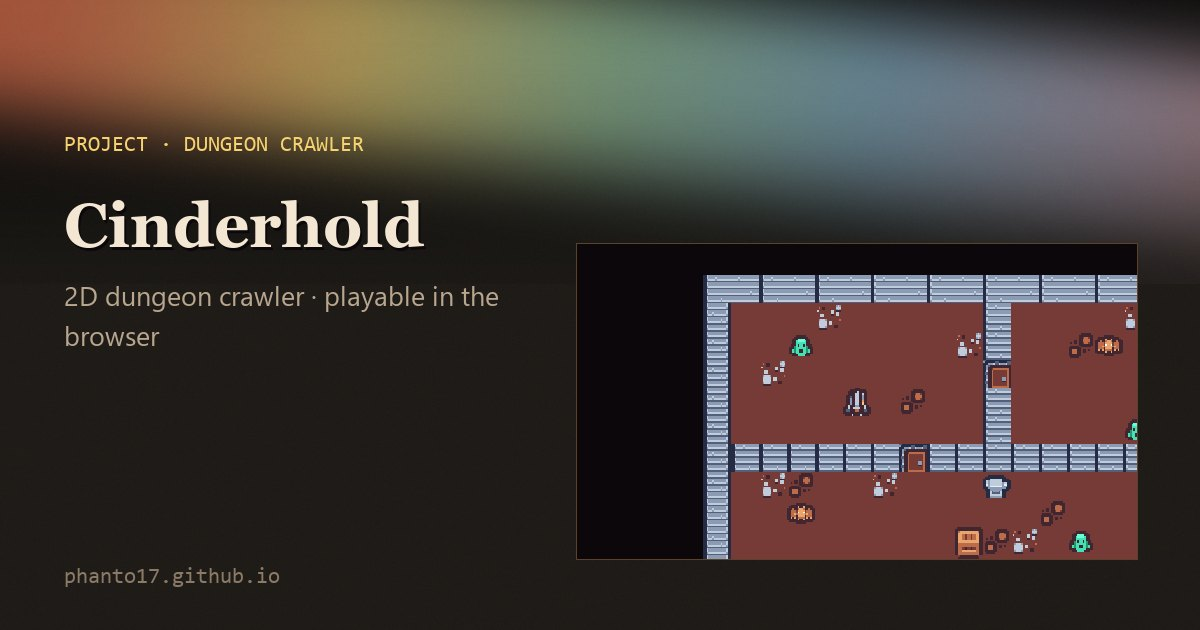
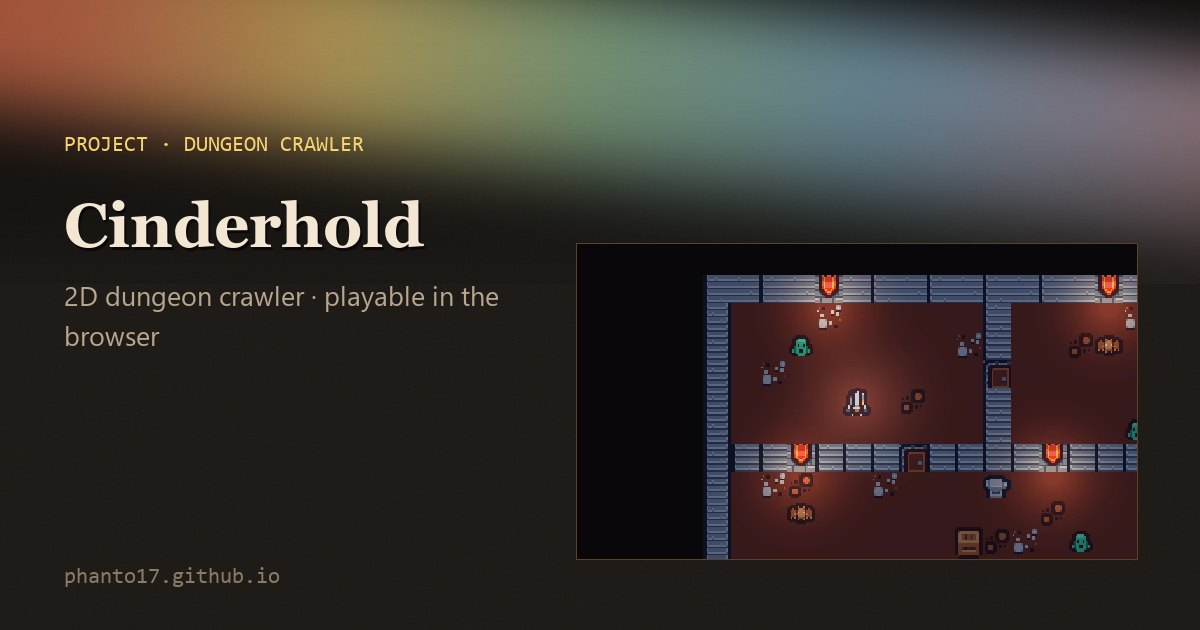
Cinderhold 0.4.0 (keys floor): copy, plan, notes, re-rendered floor images

Changed region(s): [[0.5858, 0.4222, 0.9558, 0.9048]]

diff --git a/CLAUDE.md b/CLAUDE.md
@@ -40,7 +40,7 @@ Live, public game-dev portfolio website. It is both a university course assignme
 |---|---|---|---|
 | SurvivorLike → public title **Horde Hours** | `D:\UnityProjects\SurvivorLike 4\SurvivorLike` | 6000.0.38f1, URP 17, Cinemachine 3, Input System | Vampire-Survivors-like. Build scenes: MenuScene (built from code by `HordeHoursSetup.BuildMenuScene`, 2026-10-15), Game1. My code: `Assets/_Game` (abilities, waves, object pooling, level-up, save system, HUD). Third-party (all confirmed 2026-10-15, listed with publishers on the site page): Asset Store packs by Supercyan, PI Entertainment, ThunderForgeStudio, Blink, BenjaTheMaker, CartoonVFX9x, Hun0FX, Matthew Guz, Travis Game Assets, Cartoon VFX by Wallcoeur, Vefects, LowlyPoly, SLD Audio (music "Happy Harmony"), Cyberwave Orchestra; rat character from Mixamo; fonts League Gothic (OFL) and Caslon Antique (1001Fonts FFC); AI-generated icons. **Retro Floral (personal use only) and Gondens DEMO were removed from the game on 2026-10-15** – never reintroduce them. Static Field visual is a Particle System since 2026-10-15 (VFX Graph and PPv2 packages removed). **Spawn director since 2026-10-22 (0.2.0):** `Assets/_Game/Scripts/Director` (`HordeHours.Director` asmdef, pure `SpawnDirectorModel`), `Scripts/Core/SpawnDirector.cs` + `SpawnSchedule.cs` (asset `Assets/Data/Director/Default Schedule.asset`), `EnemyScaling`; `Assets/_Game/Editor/DirectorSetup.cs` wires Game1 (WaveManager component disabled, kept). Tests in `Assets/_Game/Tests/Editor` (`HordeHours.Tests.Editor` asmdef). Pause menu has Save/Load buttons (the save IS loaded from there). **Review round 0.2.1 (2026-10-22):** `Assets/_Game/Editor/ReviewSetup.cs` (Zap shaders `#pragma target 3.5` — 4.5 is magenta on WebGL; night lighting: moonlight 0.32, Trilight ambient, fog, no skybox, warm point `Lamp` under `Player_Root`; LevelUpScreen `Dim`; InventoryPanel kept in place (owner's call); `RatLight` under `RatDancing` for the level-up rats; `CursorLock` on the player; Kenney stings (STEEL02 / STEEL01 / impactMining — **not the Push Comes to Shove clips**, owner's call) + cynicmusic "Crystal Cave" menu theme in `Assets/Audio`; the level-up plays only the owner's own sound), menu rebuilt by `HordeHoursSetup.BuildMenuScene` (generated glow/vignette sprites in `Assets/Sprites/UI`, `MenuButtonFeel`). Web build zips `Builds/HordeHours-web-0.1.0.zip` (was live 2026-10-16 → 2026-10-22), `0.2.0.zip`, `0.2.1.zip`, `0.2.2.zip` `0.2.3.zip` and `0.2.4.zip` (timer on one line under the XP bar; rats removed with their assets — no rat credit any more; pointer lock re-taken inside the card/Resume click; 29 MB) — **0.2.4 is live on itch.io since 2026-10-22 (verified byte-identical)**; **0.2.5 (2026-10-25, H3+H4: `Assets/_Game/Editor/SettingsSetup.cs` — results panel via `RunResultsScreen`/`RunSummary`, `VolumePrefs` sliders in pause and a menu Settings screen, mix defaults + ducking, four unattributed WAVs deleted) — live on itch.io since 2026-10-25 (verified byte-identical, frame html/20018331)**; **0.2.6 (2026-10-25, H7: `Editor/ContinueSetup.cs` — menu Continue in a layout column, `ContinueLoader`, director `SkipTo`, save deleted on death/win; **web save in PlayerPrefs** — the persistentDataPath file never reached IndexedDB) — live on itch.io since 2026-10-25 (verified byte-identical, upload html/20021818; the first upload 20021333 had a Cloudflare-cached 404 on its data file and was replaced)**; **0.3.0 (2026-10-25, H2: `Assets/_Game/Editor/RolesSetup.cs` — enemy roles via `EnemyMovement.role`/`EnemySteering`, skeleton `EnemyRanged` + `BoneProjectile` (BTM Skull and Bones), elites via `EliteMarker` from 5:00, `Boss_Enemy` zombie variant with `BossBrain`/`ChargeCycle` at 9:00 + `BossHealthBar`; local-only preview build `Builds/WebPreview` with an early boss) — live on itch.io since 2026-10-25 (verified byte-identical, upload html/20022525)**; **0.3.1 (2026-10-25, H6: `Editor/PerfSetup.cs` + `PerfBench`/`PerfBenchRunner`/`PerfAudit` — Enemy×Enemy physics off, 2 shadow cascades, no opaque texture, pool prewarm, pooled SFX voices; local-only `Builds/WebBench` load-test build with an overlay) — live on itch.io since 2026-10-26 (verified byte-identical, upload html/20051695)**; itch: `https://phanto-official.itch.io/horde-hours`. |
 | Into the Mewgenics → public title **Push Comes to Shove** | `D:\UnityProjects\IntotheMewgenics` | 6000.3.10f1, URP 2D, Input System | Deterministic grid tactics (Into the Breach / King's Bounty inspired). Same project as "Turn-Based Tactics Prototype" on my CV. Design docs: `Docs/DESIGN.md`, `Docs/PLAN-core-loop.md`. Has Unity MCP installed (strip before building). Third-party (confirmed 2026-10-14): Kenney Isometric Sandbox tiles (CC0); Sanctum Pixel *Top Down Pixel Art Characters* packs – Humans, Orc, Elf, Goblin (purchased, credit optional, no resale); PixelBattleText by Psychic Fur (free, Asset Store EULA, bundles the Alphapix font); UI font Pixellari by Zacchary Dempsey-Plante (100 % free, credit requested). The dafont "Pixel" font (krolesz94, personal use only) is **not** in the project. Damage is fixed since 2026-10-12 (Melee 4 / Ranged 3 / Line 1). **Melee shoves 1 tile since 2026-10-21 (build 0.2.0); before that nothing in the game pushed (Melee/Ranged PushAmount 0 at baseline, Line Attack on no prefab) — the `Assets/Editor/PushSetup.cs` script sets the data, creates `Sprites/Tiles/Pit.asset` (Kenney water tile, Hazard cell) and places 4 pits on the board `Level 1 Data` points at (`Battlefield.prefab`; `Lvl1.prefab` is unused); `Tests/EditMode/ShoveTests.cs` pins it.** **Audio since 2026-10-22 (0.3.0):** Kenney Impact / RPG / Interface / Music Jingles (CC0) and two cynicmusic loops (CC0, credit pixelsphere.org) in `Assets/Audio`, built by `Assets/Editor/AudioSetup.cs` from `_thirdparty`; `Scripts/Audio` (`SfxId`, `AudioLibrary`, `AudioManager`, `ButtonSfx`). The polish pass (audio → feel → front end → build size) shipped as `Builds/PushComesToShove-web-0.3.0.zip` (24 MB; sheets padded to 2268 px + cap 4096 so they block-compress — the 2048 cap had resampled them to 2048×1706, not ÷4, hence RGBA32) on 2026-10-22, then a review round from the owner's recording (first-hit arrows, selection kept across modes, `UiSkinSetup.cs` skinning every button with the riveted plate + Pixellari rebuilt with Polish letters) as `0.3.1.zip`; **0.3.1 is live on itch.io since 2026-10-22 (verified byte-identical).** **Level set 0.4.0 (2026-10-25, P4):** `Assets/Editor/LevelSetup.cs` builds boards from ASCII maps into `Prefabs/Levels` + `Data/Levels`, catalog `Assets/Resources/Levels.asset` (First Shove → The Crossing = `Level 1 Data` → Drowned Fields → Hold the Line (survive 5) → The Warband), rocks (`Data/Cell Templates/Rock.asset`, `Sprites/Tiles/Rock.asset` + `Rock Raised.asset`), `LevelFlow`/`LevelProgress` in `Scripts/GridSystem/LevelCatalog.cs`, `Tests/EditMode/LevelTests.cs`; `WebBuild.BuildPreview` = local-only all-levels build in `Builds/WebPreview` (never upload); `Builds/PushComesToShove-web-0.4.0.zip` — **live on itch.io since 2026-10-25 (verified byte-identical, upload html/20031719)**; 0.3.1 was live 2026-10-22 → 2026-10-25. The itch page now uses a signed `html_url/<id>` embed link that answers `{"status":"extracting"}` until itch has unpacked the zip — wait for `complete` before requesting any build file. itch.io page: `https://phanto-official.itch.io/push-comes-to-shove` (itch handle is **phanto-official** since 2026-10-16; the old `fanto1` URLs redirect). "Mewgenics" is the title of an existing commercial game – never use it publicly. |
-| **Cinderhold** (rework of DungeonForge) | `D:\UnityProjects\Cinderhold` (new, 2026-10-16); old tutorial prototype frozen at `D:\UnityProjects\DungeonForge` (git baseline `20ca45d`, reference only, never reuse) | 6000.6.3f1, URP 17.6 2D renderer, Input System 1.20, Tilemap + Extras | 2D top-down dungeon crawler built from Unity's empty Universal 2D template (git baseline `bc9729c`). Foundation done 2026-10-16: `Assets/_Game` layout, asmdefs `Cinderhold` / `Cinderhold.Editor`, `Cinderhold.inputactions` (Move/Attack/Interact/Pause, keyboard + gamepad), Kenney **Tiny Dungeon** (CC0, sliced `td_000…td_131`, Tile assets + palette), Playground scene (Pixel Perfect Camera 320×180 at 16 PPU, Walls composite collider, `PlayerMovement`), `WebBuild.cs`. Everything is created by the idempotent headless editor script `Assets/_Game/Editor/CinderholdSetup.cs` (`-executeMethod Cinderhold.EditorTools.CinderholdSetup.All`). Combat core done 2026-10-16 (`Scripts/Combat`: `HealthPool` pure C# + `Health`, `WeaponData` SO, `MeleeAttacker` OverlapBox swing, `KnockbackReceiver`, `HitStop`, `HitFlash`, `DeathSequence`; prefabs Player + Slime; `Assets/_Game/Tests/Editor` EditMode tests, run headlessly with `-runTests -testPlatform EditMode`). Enemy AI done 2026-10-16 (`Scripts/Enemies`: `EnemyDefinition` → `EnemyStats`, pure-C# states behind `IEnemyContext`, `EnemyBrain`, `AttackPattern`, `AttackTelegraph`; one inactive `Enemy.prefab` configured at spawn; data Slime / Bat / Rat / boss Cinderclaw). Progression & save done 2026-10-16 (`Scripts/Progression`: `PlayerProgress`/`LevelCurve`/`Shop` pure + `PlayerProgression`, `PlayerLoadout`, `Pickup`, `LootDropper`, `ShopStation`; `Scripts/Save`: `SaveSystem` + `ISaveSystemElement` + `ISaveStore` (PlayerPrefs on web); `Scripts/Interaction`; `Core/GameSession` autosave policy; TMP essentials imported into `Assets/TextMesh Pro`). UI & feel done 2026-10-16 (`Prefabs/HUD.prefab` built by the setup script; `Scripts/UI`: `HudController`, `DeathScreen`, `PauseController`; `Core/GameClock`; `Effects/FloatingTextPool`; `Audio/SfxSynth` procedural SFX, since 2026-10-22 only the fallback behind `Audio/AudioLibrary` (Resources) + `SfxPlayer` + `MusicPlayer` + `AudioVolumes` — Kenney Impact/RPG/Interface/Jingles clips (CC0, none shared with the other two games) and cynicmusic "Dark Forest Theme" (floors) / "Dramatic Boss Encounter" (boss, via the `boss` flag on `EnemyDefinition`) in `Assets/_Game/Audio`, built by `CinderholdSetup.CreateAudio`; `Player/PlayerDeath`). Floors done 2026-10-16: `Floor1`/`Floor2` scenes generated from ASCII maps in `Editor/CinderholdSetup.Floors.cs` (only these two are in the build; `Playground` is a dev scene), `ExitPortal` + `WinScreen` + `FloorTracker`; **no CompositeCollider2D on tilemaps** (empty at runtime when built by script in 6000.6 — use `TilemapCollider2D` alone, playtest 2026-10-16); world-space text is illegible at 320×180 — all text goes on the HUD canvas; web build zips `Builds/Cinderhold-web-0.1.1.zip` and `0.1.2.zip` (0.1.0 had no wall collision — never ship it); itch copy `docs/itch/cinderhold.md`; public on itch.io since 2026-10-16: `https://phanto-official.itch.io/cinderhold` (0.1.2 since 2026-10-17), site page playable. Credits: Kenney Tiny Dungeon (CC0), Kenney Fonts — Kenney Mini / Mini Square, the UI fonts since 2026-10-17 (CC0), Liberation Sans shipped inside TMP resources (OFL), Kenney audio packs (CC0), cynicmusic loops (CC0). Web builds `Builds/Cinderhold-web-0.2.0.zip` (recorded audio, 2026-10-22, never uploaded) and `0.2.1.zip` (settings + controls card in the pause panel via `SettingsModel`/`SettingsPanel`/`FeelSettings`, death-screen wording; 2026-10-25) — 0.2.1 was live 2026-10-25 → 2026-10-26 (frame html/20009683); 0.1.2 was live 2026-10-17 → 2026-10-25. **0.3.0 (2026-10-26, C3 + C5):** dodge (`Player/DodgeModel` + `PlayerDodge`, `Dodge` action, `HealthPool.GrantInvulnerability`, HUD gauge), 2D lighting (`Scripts/Lighting`: `TorchFlicker`, `BossArena`; `t` = sconce in the floor maps), `Enemies/BossEncounter` + `UI/BossBar`, `Effects/DeathBursts`, `UI/ScreenFade`; `Builds/Cinderhold-web-0.3.0.zip` — **live on itch.io since 2026-10-26 (verified byte-identical, upload html/20052674)**. The itch page credits block was pasted by 2026-10-26; the page description and controls still read as 0.2.1 (no dodge) until the owner pastes them. **The site page says most code was written with Claude Code under my direction** (same honesty line as Eternity Keeper). Design notes: `Docs/DESIGN.md`. |
+| **Cinderhold** (rework of DungeonForge) | `D:\UnityProjects\Cinderhold` (new, 2026-10-16); old tutorial prototype frozen at `D:\UnityProjects\DungeonForge` (git baseline `20ca45d`, reference only, never reuse) | 6000.6.3f1, URP 17.6 2D renderer, Input System 1.20, Tilemap + Extras | 2D top-down dungeon crawler built from Unity's empty Universal 2D template (git baseline `bc9729c`). Foundation done 2026-10-16: `Assets/_Game` layout, asmdefs `Cinderhold` / `Cinderhold.Editor`, `Cinderhold.inputactions` (Move/Attack/Interact/Pause, keyboard + gamepad), Kenney **Tiny Dungeon** (CC0, sliced `td_000…td_131`, Tile assets + palette), Playground scene (Pixel Perfect Camera 320×180 at 16 PPU, Walls composite collider, `PlayerMovement`), `WebBuild.cs`. Everything is created by the idempotent headless editor script `Assets/_Game/Editor/CinderholdSetup.cs` (`-executeMethod Cinderhold.EditorTools.CinderholdSetup.All`). Combat core done 2026-10-16 (`Scripts/Combat`: `HealthPool` pure C# + `Health`, `WeaponData` SO, `MeleeAttacker` OverlapBox swing, `KnockbackReceiver`, `HitStop`, `HitFlash`, `DeathSequence`; prefabs Player + Slime; `Assets/_Game/Tests/Editor` EditMode tests, run headlessly with `-runTests -testPlatform EditMode`). Enemy AI done 2026-10-16 (`Scripts/Enemies`: `EnemyDefinition` → `EnemyStats`, pure-C# states behind `IEnemyContext`, `EnemyBrain`, `AttackPattern`, `AttackTelegraph`; one inactive `Enemy.prefab` configured at spawn; data Slime / Bat / Rat / boss Cinderclaw). Progression & save done 2026-10-16 (`Scripts/Progression`: `PlayerProgress`/`LevelCurve`/`Shop` pure + `PlayerProgression`, `PlayerLoadout`, `Pickup`, `LootDropper`, `ShopStation`; `Scripts/Save`: `SaveSystem` + `ISaveSystemElement` + `ISaveStore` (PlayerPrefs on web); `Scripts/Interaction`; `Core/GameSession` autosave policy; TMP essentials imported into `Assets/TextMesh Pro`). UI & feel done 2026-10-16 (`Prefabs/HUD.prefab` built by the setup script; `Scripts/UI`: `HudController`, `DeathScreen`, `PauseController`; `Core/GameClock`; `Effects/FloatingTextPool`; `Audio/SfxSynth` procedural SFX, since 2026-10-22 only the fallback behind `Audio/AudioLibrary` (Resources) + `SfxPlayer` + `MusicPlayer` + `AudioVolumes` — Kenney Impact/RPG/Interface/Jingles clips (CC0, none shared with the other two games) and cynicmusic "Dark Forest Theme" (floors) / "Dramatic Boss Encounter" (boss, via the `boss` flag on `EnemyDefinition`) in `Assets/_Game/Audio`, built by `CinderholdSetup.CreateAudio`; `Player/PlayerDeath`). Floors done 2026-10-16: `Floor1`/`Floor2` scenes generated from ASCII maps in `Editor/CinderholdSetup.Floors.cs` (maps in `Editor/FloorMaps.cs` since 0.4.0; `Floor1`–`Floor3` are in the build; `Playground` is a dev scene), `ExitPortal` + `WinScreen` + `FloorTracker`; **no CompositeCollider2D on tilemaps** (empty at runtime when built by script in 6000.6 — use `TilemapCollider2D` alone, playtest 2026-10-16); world-space text is illegible at 320×180 — all text goes on the HUD canvas; web build zips `Builds/Cinderhold-web-0.1.1.zip` and `0.1.2.zip` (0.1.0 had no wall collision — never ship it); itch copy `docs/itch/cinderhold.md`; public on itch.io since 2026-10-16: `https://phanto-official.itch.io/cinderhold` (0.1.2 since 2026-10-17), site page playable. Credits: Kenney Tiny Dungeon (CC0), Kenney Fonts — Kenney Mini / Mini Square, the UI fonts since 2026-10-17 (CC0), Liberation Sans shipped inside TMP resources (OFL), Kenney audio packs (CC0), cynicmusic loops (CC0). Web builds `Builds/Cinderhold-web-0.2.0.zip` (recorded audio, 2026-10-22, never uploaded) and `0.2.1.zip` (settings + controls card in the pause panel via `SettingsModel`/`SettingsPanel`/`FeelSettings`, death-screen wording; 2026-10-25) — 0.2.1 was live 2026-10-25 → 2026-10-26 (frame html/20009683); 0.1.2 was live 2026-10-17 → 2026-10-25. **0.3.0 (2026-10-26, C3 + C5):** dodge (`Player/DodgeModel` + `PlayerDodge`, `Dodge` action, `HealthPool.GrantInvulnerability`, HUD gauge), 2D lighting (`Scripts/Lighting`: `TorchFlicker`, `BossArena`; `t` = sconce in the floor maps), `Enemies/BossEncounter` + `UI/BossBar`, `Effects/DeathBursts`, `UI/ScreenFade`; `Builds/Cinderhold-web-0.3.0.zip` — **live on itch.io since 2026-10-26 (verified byte-identical, upload html/20052674)**. The itch page credits block was pasted by 2026-10-26; the page description and controls still read as 0.2.1 (no dodge) until the owner pastes them. **0.4.0 (2026-10-27, C4):** new Floor 2 with keys/locked doors/a checkpoint/armoured slimes (`Interaction/KeyPickup`, `LockedDoor`, `Checkpoint` on `FloorObjectState`; `Progression/KeyRing`; `UI/KeyCounter`; `Editor/CinderholdSetup.Keys.cs` draws the key and padlock sprites), Cinderclaw's floor moved to `Floor3`; `Builds/Cinderhold-web-0.4.0.zip` built, upload pending. **The site page says most code was written with Claude Code under my direction** (same honesty line as Eternity Keeper). Design notes: `Docs/DESIGN.md`. |
 
 | **Eternity Keeper** (tool, not a game) | `D:\PillarsEditor\eternity-keeper` (repo `phanto17/eternity-keeper`, fork of `aybrkaknc/eternity-keeper`, GPL-3.0) | Java 8 + JCEF, Maven; own `CLAUDE.md` with strict toolchain and save-safety rules – **read it before touching that repo** | Pillars of Eternity save editor. My work Jul 12 – Oct 9 2026: ~90 commits (identities `tjaskol`, `boogiewoogie`), ~44 k lines added incl. tests, releases 1.0.0-beta (2026-10-06) and 1.0.1-beta (2026-10-09), PR #1 open upstream, Reddit announcements. 708 JUnit tests, CI + Package workflows. **Most code was written with Claude Code under my direction – the site and CV must say so** (the repo and Reddit posts already do). Site page: `src/content/projects/eternity-keeper.md` (kind: tool). Screenshots copied to `public/media/eternity-keeper/`. |
 

diff --git a/src/content/projects/cinderhold.md b/src/content/projects/cinderhold.md
@@ -1,6 +1,6 @@
 ---
 title: Cinderhold
-summary: A 2D top-down dungeon crawler with telegraphed enemy attacks — data-driven weapons, enemy state machines, a weapon shop, JSON saves and two hand-made floors.
+summary: A 2D top-down dungeon crawler with telegraphed enemy attacks — data-driven weapons, enemy state machines, a weapon shop, JSON saves and three hand-made floors with keys and locked doors.
 genre: 2D dungeon crawler / roguelite
 status: playable
 itchUrl: https://phanto-official.itch.io/cinderhold
@@ -20,13 +20,14 @@ myContribution:
   - "Enemy AI: each enemy type is an `EnemyDefinition` asset (look, health, speeds, sight, attack pattern, cowardice) applied to one generic prefab at spawn. Behaviour is a small state machine whose states — Idle, Patrol, Chase, Attack, Flee, Recover — are plain C# objects that only see an interface: senses (sight range with hysteresis, line of sight against walls, a short memory of the last seen position, an alert after being hit) and actuators (move, stop, swing). Attacks are telegraphed on the floor from the weapon's hitbox during the windup, followed by a pause that is the player's punish window. Cowards flee at low health, recover out of sight, and cannot flee again for a while so they end up fighting. The boss, Cinderclaw, is the same brain with a cycling attack pattern (slam, slam, sweep); no boss-specific code."
   - "Progression and persistence: enemies carry XP and coin rewards as data and drop pickups that fly to the player; a plain C# progress model handles levels (each level adds max health and refills), XP carry-over and coins; a smith's station in the room sells better weapons through a small interaction layer (nearest usable object in range, one Interact action). Saving is a version plus a list of named JSON blobs — every component with state worth keeping writes its own small record — behind a swappable store: PlayerPrefs in the browser build, memory in tests. One session object decides when to load and autosave, so gameplay code never writes files."
   - "Interface and feel: a screen-space HUD (health pips, XP bar and level, coins, equipped weapon, interaction prompt) driven by the same events the gameplay raises, a death screen that restarts from the last autosave, pause on a single game clock that also owns hit-stop so the two can never cancel each other, pooled floating damage numbers, camera shake scaled by what happened, and sound effects that were at first synthesised from square, saw, sine and noise waves at start — no audio files, no licences to track, and one class to swap when recorded sounds arrived. None of the effects are known to the gameplay code; they subscribe to global events."
-  - "Tests: EditMode tests cover the health pool, cooldown, hitbox geometry, every AI state transition through a fake context, the attack pattern, the level curve and progress model, the shop rules, the save format, the game clock, the sound synthesis, the audio library, the settings list, the dodge and its invulnerability window (93 tests); PlayMode tests instantiate the real prefabs and data and check the sword kill loop, enemy chasing and biting, the bat's flee-and-recover, loot collection after a kill, level-up healing, shop purchases, a full save/load round trip, the HUD, death screen, pause and damage popups against the real prefabs, and the dodge, the lights and the boss encounter on the real floors (34 tests). Both suites run headlessly from the command line like the builds."
-  - "Floors and the run: two hand-made floors authored as text maps and built into scenes by the same editor script, a smith on each, an exit sealed by the guardian on the second floor, a win screen, and checkpoints on arrival so the build can boot into the floor a save belongs to."
+  - "Tests: EditMode tests cover the health pool, cooldown, hitbox geometry, every AI state transition through a fake context, the attack pattern, the level curve and progress model, the shop rules, the save format, the game clock, the sound synthesis, the audio library, the settings list, the dodge and its invulnerability window, the key ring and the saved state of keys and doors, and a check that no floor can strand the player (98 tests); PlayMode tests instantiate the real prefabs and data and check the sword kill loop, enemy chasing and biting, the bat's flee-and-recover, loot collection after a kill, level-up healing, shop purchases, a full save/load round trip, the HUD, death screen, pause and damage popups against the real prefabs, the dodge, the lights and the boss encounter on the real floors, and the keys, locked doors and checkpoint on Floor 2 (40 tests). Both suites run headlessly from the command line like the builds."
+  - "Floors and the run: hand-made floors authored as text maps and built into scenes by the same editor script, a smith on each, an exit sealed by the guardian on the last floor, a win screen, and checkpoints on arrival so the build can boot into the floor a save belongs to."
   - "First playtest (a recorded run with commentary) drove a revision pass: the walls had no collision in the web build because a composite collider built by script produced no geometry at runtime, which a scene-level test now guards; mouse attacks aim at the cursor; damage numbers moved from world space to the HUD so they are legible at the pixel scale; enemies got health bars; health, enemy pacing and heart drops were tuned after a 36-second first death; a short controls hint appears on each floor."
   - "Recorded audio (0.2.0): every sound is now a CC0 clip from Kenney's Impact, RPG, Interface and Music Jingles packs, chosen so that none of them is a sound of my other two games (swings are cloth whooshes, the player's hurt is a plate-armour clank, deaths are tolls on a bell pitched down, the boss roars with a slowed door creak). A library asset in Resources maps each sound id to its clips, level, pitch and jitter; the synthesised versions stay behind it as a fallback, so an id without a recording still sounds. Two cynicmusic loops (CC0): a brooding guitar theme on the floors and a drums-and-violin track that crossfades in when Cinderclaw notices you and out again when it dies; the floor loop carries through portals because the music player survives scene loads. New sounds for the portal, the escape, pausing and the boss, and three persisted volumes (master, music, effects) for the settings screen to come."
   - "Settings (0.2.1): the pause panel holds master, music and effects volume and a screen-shake toggle, driven by the Move action so keyboard and gamepad work without a mouse or an EventSystem; the list is a plain C# model (select, adjust, clamp, wrap) with the drawing kept apart, values persist in PlayerPrefs, and the same panel carries a controls card for both input schemes. The death screen now says what a retry does: the floor restarts from the last checkpoint, enemies return, your level, coins and weapon stay."
   - "Dodge (0.3.0): Shift, K, right mouse, or B / RB on a pad dashes about two and a half tiles through enemies with hits ignored for a quarter of a second, on a cooldown shown as a gauge by the weapon icon. The rhythm (dash, window, cooldown) is a plain C# model with tests, and the window is a new rule on the health pool: grant invulnerability for at least this long, never shortening a longer one. A hit the window swallows says \"Dodged\". Walls still stop the dash, which a PlayMode test checks on the real floor. Enemy windups were shortened and their hit boxes widened, so the red mark is answered by dodging rather than by walking away."
   - "Light and feel (0.3.0): the floors went dark (a dim, cool global 2D light) and are lit by flickering sconces placed from the text maps, a warm light the player carries, a portal that glows brighter once it opens and a red light in the boss room that swells when Cinderclaw notices you. The boss gets an entrance: its name across the screen, a camera shake and a health bar that stays until it falls, all driven by one encounter component the bar, the light and the music cue listen to. Enemies burst into chips in their own colour from a single particle system, and moving between floors fades through black."
+  - "Keys and a third floor (0.4.0): a new Floor 2 between the first floor and Cinderclaw's, so the boss stays last. Two locked doors, two keys guarded in side rooms, a waystone halfway that lights up and saves the run, and an armoured slime (the slime's sprite in iron, over twice the health, barely pushed) that is only a new data asset and a tint. A locked door sits on the wall layer, so it stops bodies, dashes and enemy sight until a key is spent on it. Keys, doors and the waystone each save one flag under their map cell, so a restart from the waystone keeps opened doors open and spent keys gone, and a death before it puts the key back. The map build refuses a floor where some order of spending keys could lock the exit away: it tries every order with a flood fill, and a test pins the rule with a trap map. The key and padlock are 16 px pixel art drawn by the setup script in the tileset's own palette, since the pack has no key."
   - "Most of the code was written with an AI assistant (Claude Code) under my direction: I set the scope and the order of the systems, decided the design rules (telegraphed attacks, data over code, one clock), reviewed every change and its tests, and chose what to cut. The commits say so."
   - "The earlier prototype (June–July 2025) followed a beginner tutorial and is not presented as my work; it is kept only as a frozen reference."
 tools:
@@ -40,7 +41,8 @@ tools:
 media:
   - { type: image, src: /media/cinderhold/floor1-spawn.webp, alt: "Floor 1 of Cinderhold: the knight at the spawn room with a slime and a bat nearby, grey brick walls and a doorway", caption: "Fig. 1 — Floor 1, the first room (rendered from the scene at the game's 4× framing)" }
   - { type: image, src: /media/cinderhold/floor1-exit.webp, alt: "The lower room of Floor 1 with the smith's anvil, a crate, a barrel and the glowing exit stairs", caption: "Fig. 2 — the smith and the way down" }
-  - { type: image, src: /media/cinderhold/floor2-boss.webp, alt: "Floor 2's guardian room: the large red Cinderclaw next to the sealed exit", caption: "Fig. 3 — Cinderclaw seals the last exit until it falls" }
+  - { type: image, src: /media/cinderhold/floor2-locks.webp, alt: "Floor 2 in the dark: torch-lit brick walls, a door with a gold padlock in the wall, a grey waystone below it, green slimes and darker blue-teal armoured slimes", caption: "Fig. 3 — Floor 2: the first locked door, the waystone checkpoint behind it, and armoured slimes" }
+  - { type: image, src: /media/cinderhold/floor3-boss.webp, alt: "Floor 3's guardian room: the large red Cinderclaw next to the sealed exit", caption: "Fig. 4 — Cinderclaw seals the last exit until it falls" }
 credits:
   - { asset: "Tiny Dungeon tileset and characters", author: "Kenney", url: "https://kenney.nl/assets/tiny-dungeon", license: "CC0" }
   - { asset: "Kenney Fonts: Kenney Mini and Kenney Mini Square (UI)", author: "Kenney", url: "https://kenney.nl/assets/kenney-fonts", license: "CC0" }
@@ -52,7 +54,7 @@ credits:
 
 ## The game
 
-Cinderhold is a short top-down dungeon crawler. You fight down two floors of slimes, bats and rats, level up for more health, buy a heavier weapon from the smith with the coins they drop, and face Cinderclaw, the guardian that seals the last exit. Every enemy attack is marked on the floor before it lands: step out of the red mark, then punish. It is small on purpose, a complete loop that runs in the browser.
+Cinderhold is a short top-down dungeon crawler. You fight down three floors of slimes, bats and rats, level up for more health, buy a heavier weapon from the smith with the coins they drop, find the keys to the second floor's locked doors, and face Cinderclaw, the guardian that seals the last exit. Every enemy attack is marked on the floor before it lands: dodge through the red mark, then punish. It is small on purpose, a complete loop that runs in the browser.
 
 The first version of this project, in 2025, was a tutorial follow-along. It is kept only as a frozen reference and nothing from it is reused; the current game started in October 2026 from Unity's empty 2D template.
 
@@ -138,7 +140,7 @@ The boss is the same brain with a longer weapon list (slam, slam, sweep). There 
 
 ### 2. Floors written as text
 
-Both floors are text maps inside an editor script, built into scenes from the command line: walls, lit sconces, doorways, props, the spawn, the smith, the exit and every enemy. Changing a floor means editing a few characters and re-running one build step.
+Every floor is a text map inside an editor script, built into scenes from the command line: walls, lit sconces, doorways, locked doors, keys, the checkpoint, props, the spawn, the smith, the exit and every enemy. Changing a floor means editing a few characters and re-running one build step. Before a floor with locked doors is built, a flood fill tries every order of spending keys on doors; if any order strands the player with the exit out of reach, the build stops and says how many keys were left.
 
 ```text
 ####t#########t#####
@@ -162,4 +164,4 @@ The first recorded playtest showed the player walking straight through walls. Th
 
 ### What's next
 
-A third floor with locked doors and keys, and a room generator that stitches hand-made rooms into floors.
+A room generator that stitches hand-made rooms into floors, with the key-and-door check deciding whether a generated floor is fair.

diff --git a/docs/plan-upgrades.md b/docs/plan-upgrades.md
@@ -127,6 +127,7 @@ Total: **16 h** (+6 optional).
 - **2026-10-22 — Horde Hours review round (0.2.1)** from the owner's recording: Zap shaders target 3.5 (were magenta on WebGL), night lighting + player lamp, level-up dim, inventory cornered, pointer lock on click, menu restyled with music, four stings. 12 EditMode tests. Build 0.2.1 (29 MB); itch re-upload pending. Not done: the aura/ring look (left as is), pause-panel restyle. **Fix round 0.2.2:** inventory back to its original place (the corner ran under the XP bar), a lamp for the level-up rats, the level-up sting removed (the game's own sound stays), stings/ticks and the menu theme ("Crystal Cave") chosen to differ from Push Comes to Shove. **0.2.3:** the timer ("00:19 / 10:00") wrapped onto the XP bar; now one line, 760 px wide, under the bar. **0.2.4:** the dancing rats and their assets (unknown-modeller Mixamo rig) removed at the owner's request, so that credit line is gone too; the pointer lock is re-taken inside the level-up card click and the Resume click (browsers only grant it inside a gesture). 0.2.4 live on itch.io since 2026-10-22 (verified byte-identical).
 
 - **2026-10-22 — C1 done.** `AudioLibrary` in Resources + `SfxPlayer` with the synth as fallback, `MusicPlayer` crossfade (floor loop → boss loop on Cinderclaw's aggro, back on its death), `AudioVolumes` in PlayerPrefs instead of a mixer, new sounds (portal, escape, pause, boss roar/death) on new static events, `boss` flag on `EnemyDefinition`. Kenney clips chosen to differ from both other games; cynicmusic "Dark Forest Theme" and "Dramatic Boss Encounter" downloaded with the owner's OK. 82 EditMode + 27 PlayMode tests. Build 0.2.0 (superseded by 0.2.1 before upload). Owner played the whole run on 2026-10-25: sounds good.
+- **2026-10-27 — C4 done (0.4.0).** New Floor 2 (28×17) between Floor 1 and Cinderclaw's floor (now Floor 3, still last): `L` locked doors (`LockedDoor`, Walls layer, padlock overlay), `k` keys (`KeyPickup`, player `KeyRing`, HUD `KeyCounter`), `c` checkpoint waystone (`Checkpoint` saves on touch), `A` armoured slime (data + new `EnemyDefinition.tint`; `HitFlash` now reads the resting colour at the hit). Floor objects save one flag each under their map cell (`FloorObjectState`). Maps moved to `Editor/FloorMaps.cs` with `AlwaysEscapable` (tries every order of spending keys; the build throws on a softlock). Key and padlock sprites drawn by `CinderholdSetup.Keys`. Sounds Kenney metalClick / metalLatch / jingles_NES03 (none used in the other games). 98 EditMode + 40 PlayMode tests. Build 0.4.0 (17 MB); itch upload pending. Site images re-rendered with the 0.3.0 lighting.
 - **2026-10-26 — C3 + C5 done (0.3.0).** Dodge: `Dodge` action (Shift / K / right mouse / B / RB), pure `DodgeModel` (0.16 s dash, 0.26 s window, 0.75 s cooldown), `PlayerDodge` (2.6 tiles via MovePosition, passes enemies with `excludeLayers`, afterimages, "Dodged" popup on `Health.Evaded`), `HealthPool.GrantInvulnerability`, HUD `DodgeIndicator`, Kenney clothBelt clips (unused in the other games); enemy windups 0.40/0.30/0.60/0.45 → 0.34/0.27/0.50/0.40 s with wider boxes. Lighting & feel: global 2D light 0.32 cool, sconces from `t` in the maps (tile 29 + flickering `TorchFlicker` point light), player light, portal glow tied to open/sealed, `BossEncounter` (one rule for the boss's notice) → `BossArena` red light and `BossBar` (name banner + shake + bar), `DeathBursts` (one particle system, per-type `deathColor`), `ScreenFade` between floors. Lesson: a headless edit-mode render shows no 2D point lights unless their mesh is built first (`Light2D.UpdateMesh`, internal); in play they work. 93 EditMode + 34 PlayMode tests. Build 0.3.0 (17 MB) live on itch.io since 2026-10-26 (verified byte-identical, upload html/20052674). Not done from C5: screen shake on heavy hits was already in (hit/death shakes since 0.1, toggle in 0.2.1).
 - **2026-10-25 — C2 + C6 done.** Settings rows (master, music, effects, screen shake) and a controls card in the pause panel, driven by the Move action (no EventSystem — keyboard and gamepad alike), `SettingsModel` pure + `SettingsPanel`, `FeelSettings` in PlayerPrefs, `CameraFollow` honours the toggle; death screen wording ("Back to menu" dropped: the game has no menu scene). 85 EditMode + 29 PlayMode tests. Build 0.2.1 live on itch.io since 2026-10-25 (verified byte-identical).
 - **2026-10-25 — H3 + H4 done.** `RunSummary` (pure, Director asmdef) + `RunResultsScreen` on the game-over panel (time of goal, level, kills, build icons with levels); `VolumePrefs` + `AudioSettingsPanel` sliders in the pause panel and a menu Settings screen (`SettingsSetup.All` builds them, `HordeHoursSetup.BuildMenuScene` the menu), `MenuMusicVolume`; mix defaults on the AudioManager prefab, music ducking (`SetDucked`) under level-up and results, the four unreferenced WAVs deleted. The boss/elite cue waits for H2 (there is no boss yet). 18 EditMode tests. Build 0.2.5 live on itch.io since 2026-10-25 (verified byte-identical).

diff --git a/docs/itch/cinderhold.md b/docs/itch/cinderhold.md
@@ -3,12 +3,12 @@
 Same procedure as `push-comes-to-shove-guide.md` (HTML project, **1280 × 720**, fullscreen on,
 autostart off, SharedArrayBuffer off, theme colours from the Prism system). Differences below.
 
-- **Build:** `D:\UnityProjects\Cinderhold\Builds\Cinderhold-web-0.3.0.zip` (0.3.0 = the dodge, 2D lighting, the boss entrance, death bursts, floor fades; 0.2.1 added settings and the controls card on top of 0.2.0's recorded audio and music; 0.1.2 added the Kenney pixel UI font; 0.1.0 shipped without wall collision, never use it)
+- **Build:** `D:\UnityProjects\Cinderhold\Builds\Cinderhold-web-0.4.0.zip` (0.4.0 = a new Floor 2 with keys, locked doors, a checkpoint and armoured slimes; Cinderclaw's floor is now Floor 3; 0.3.0 = the dodge, 2D lighting, the boss entrance, death bursts, floor fades; 0.2.1 added settings and the controls card on top of 0.2.0's recorded audio and music; 0.1.2 added the Kenney pixel UI font; 0.1.0 shipped without wall collision, never use it)
 - **Cover:** `docs/itch/assets/cinderhold-cover-630x500.png`
 - **Screenshots:** `D:\UnityProjects\Cinderhold\Builds\Shots\floor1-spawn.png`, `floor1-exit.png`,
-  `floor2-boss.png` (1280 × 720, captured from the scenes without the HUD); add one in-browser shot
+  `floor2-locks.png`, `floor2-exit.png`, `floor3-boss.png` (1280 × 720, captured from the scenes without the HUD); add one in-browser shot
   with the HUD if you can.
-- **Known rough edges in 0.3.0:** two floors only, a death restarts at the last checkpoint with the floor's enemies back
+- **Known rough edges in 0.4.0:** three short floors; a death restarts at the last checkpoint with the floor's enemies back
   (the death screen says so now).
 
 ## Title / slug
@@ -17,13 +17,13 @@ autostart off, SharedArrayBuffer off, theme colours from the Prism system). Diff
 
 ## Short description (tagline)
 
-A short top-down dungeon crawler. Read the telegraph, dodge, strike. Two floors, a smith, and a guardian at the bottom.
+A short top-down dungeon crawler. Read the telegraph, dodge, strike. Three floors, locked doors, a smith, and a guardian at the bottom.
 
 ## Description
 
 **Cinderhold** is a small 2D dungeon crawler made solo in Unity.
 
-Every enemy shows where it will hit before it swings: a red mark on the floor is your cue to dodge through it and punish. Kill slimes, bats and rats for XP and coins, level up for more health, spend coins at the smith for a bigger weapon, and find the way down. The guardian on the second floor seals the exit until it falls.
+Every enemy shows where it will hit before it swings: a red mark on the floor is your cue to dodge through it and punish. Kill slimes, bats and rats for XP and coins, level up for more health, spend coins at the smith for a bigger weapon, and find the way down. The second floor is locked: find the keys its monsters guard. The guardian on the third floor seals the exit until it falls.
 
 ### Controls
 
@@ -42,6 +42,10 @@ Feedback welcome in the comments — especially on readability of the attacks an
 - Sound effects: [Impact Sounds](https://kenney.nl/assets/impact-sounds), [RPG Audio](https://kenney.nl/assets/rpg-audio), [Interface Sounds](https://kenney.nl/assets/interface-sounds) and [Music Jingles](https://kenney.nl/assets/music-jingles) by Kenney (CC0)
 - Music: [Dark Forest Theme](https://opengameart.org/content/dark-forest-theme) and [Dramatic Boss Encounter](https://opengameart.org/content/dramatic-boss-encounter) by cynicmusic — pixelsphere.org (CC0)
 - Design and code: Tymoteusz Jaskólski. Most of the code was written with an AI assistant (Claude Code) under my direction: I specified the systems, reviewed the changes and did the testing.
+
+### Devlog — 0.4.0: keys and a third floor
+
+There is a new second floor between the first one and Cinderclaw's, who now waits on the third. Its doors are locked: two keys lie in side rooms, guarded by armoured slimes (tougher, and they barely budge when hit). Halfway through, a waystone lights up when you pass it and saves your run, so a death past it restarts there with the doors you opened still open.
 
 ### Devlog — 0.3.0: dodge and light
 
